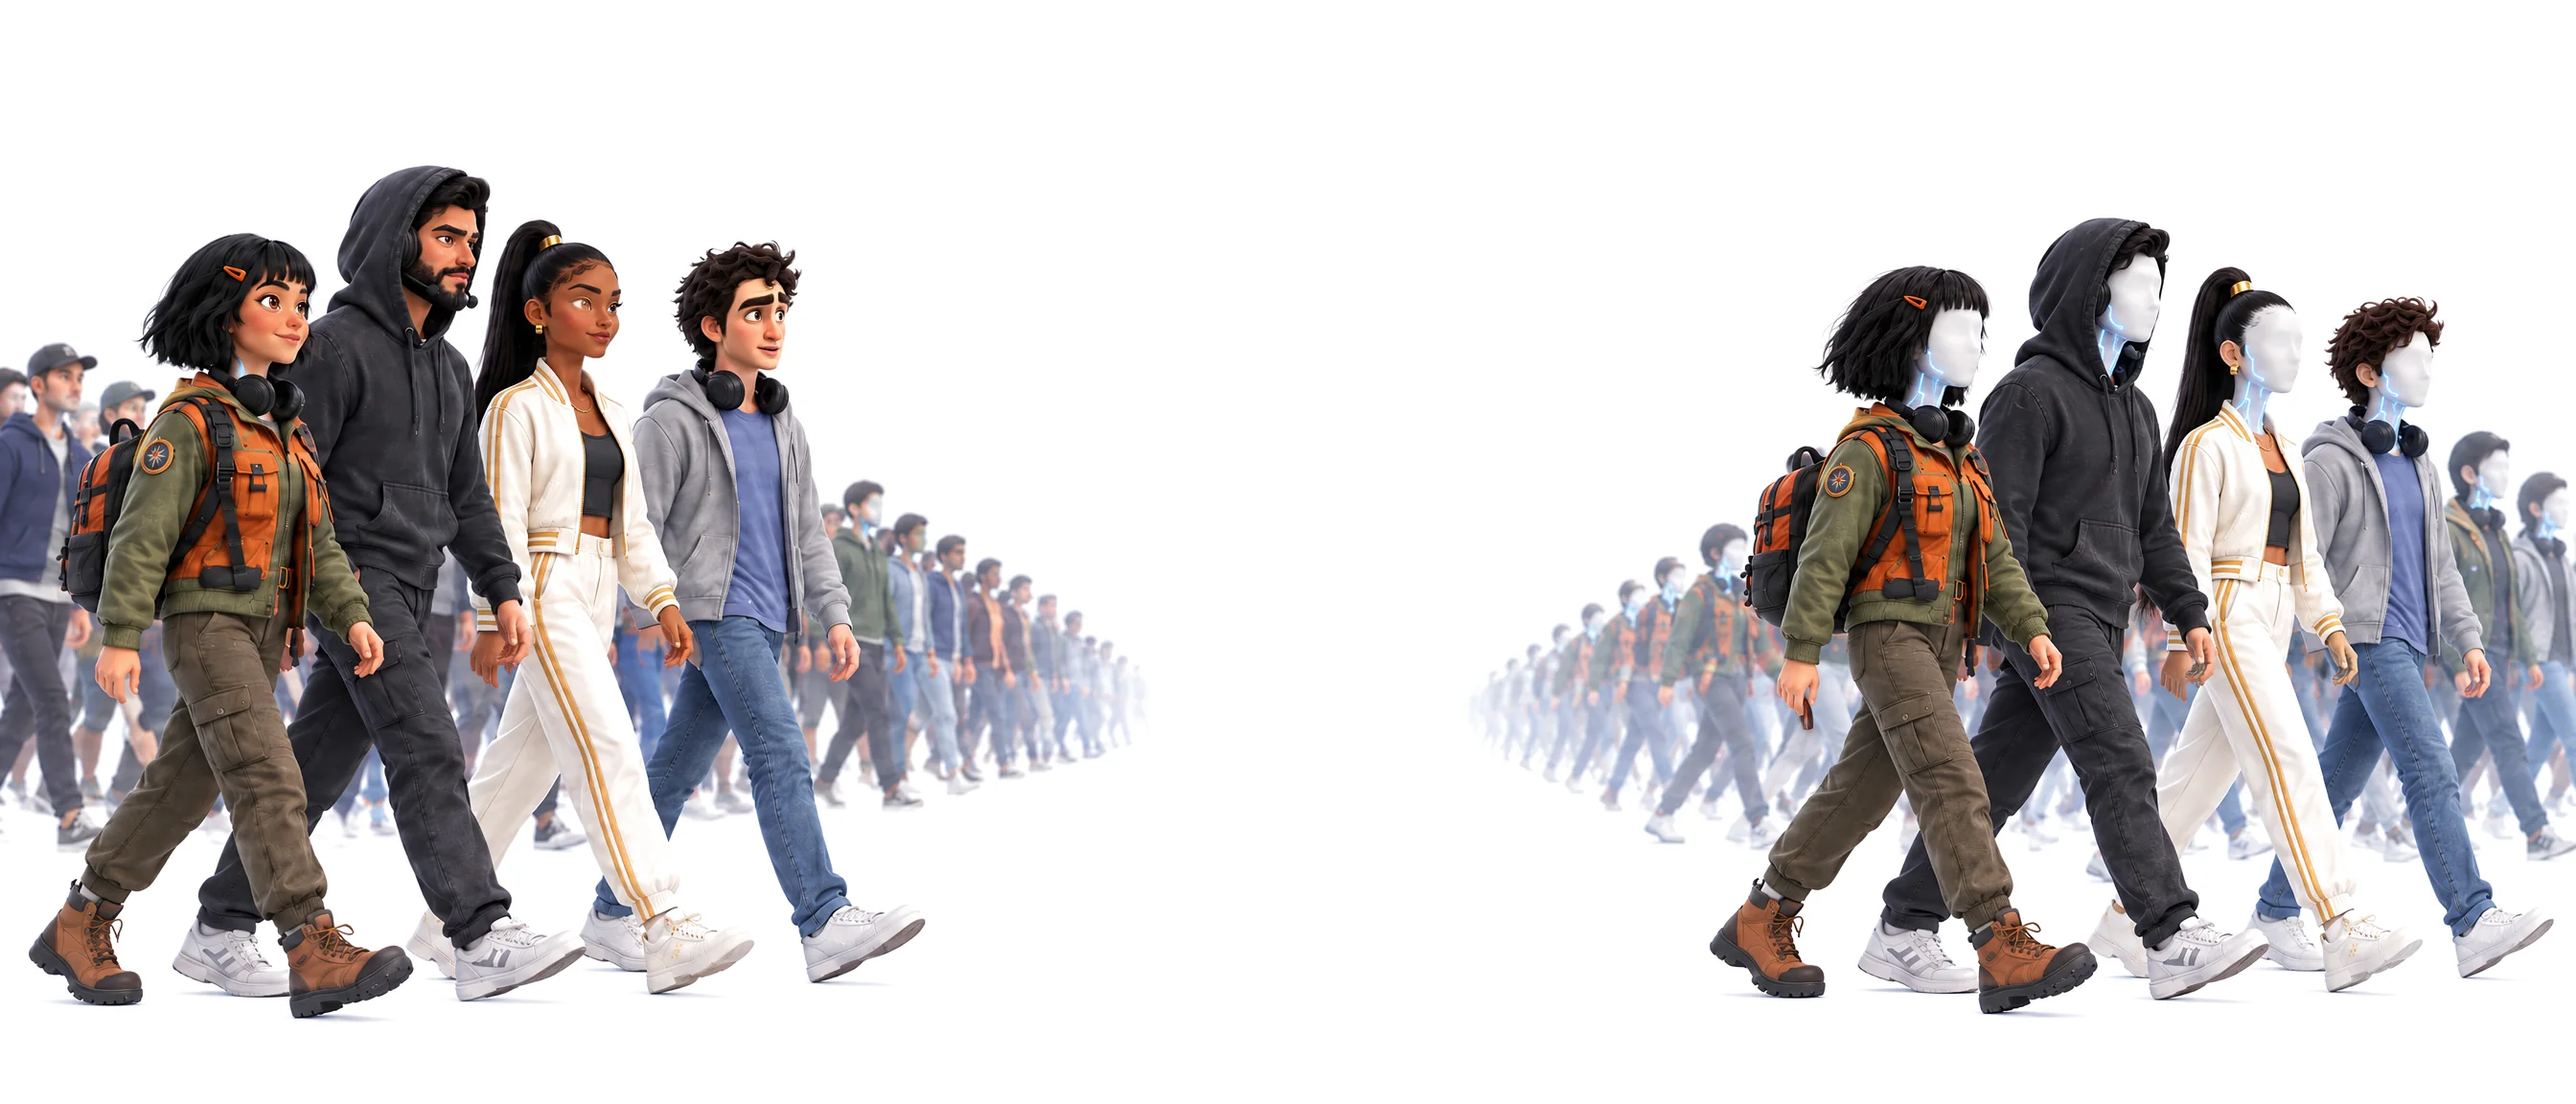
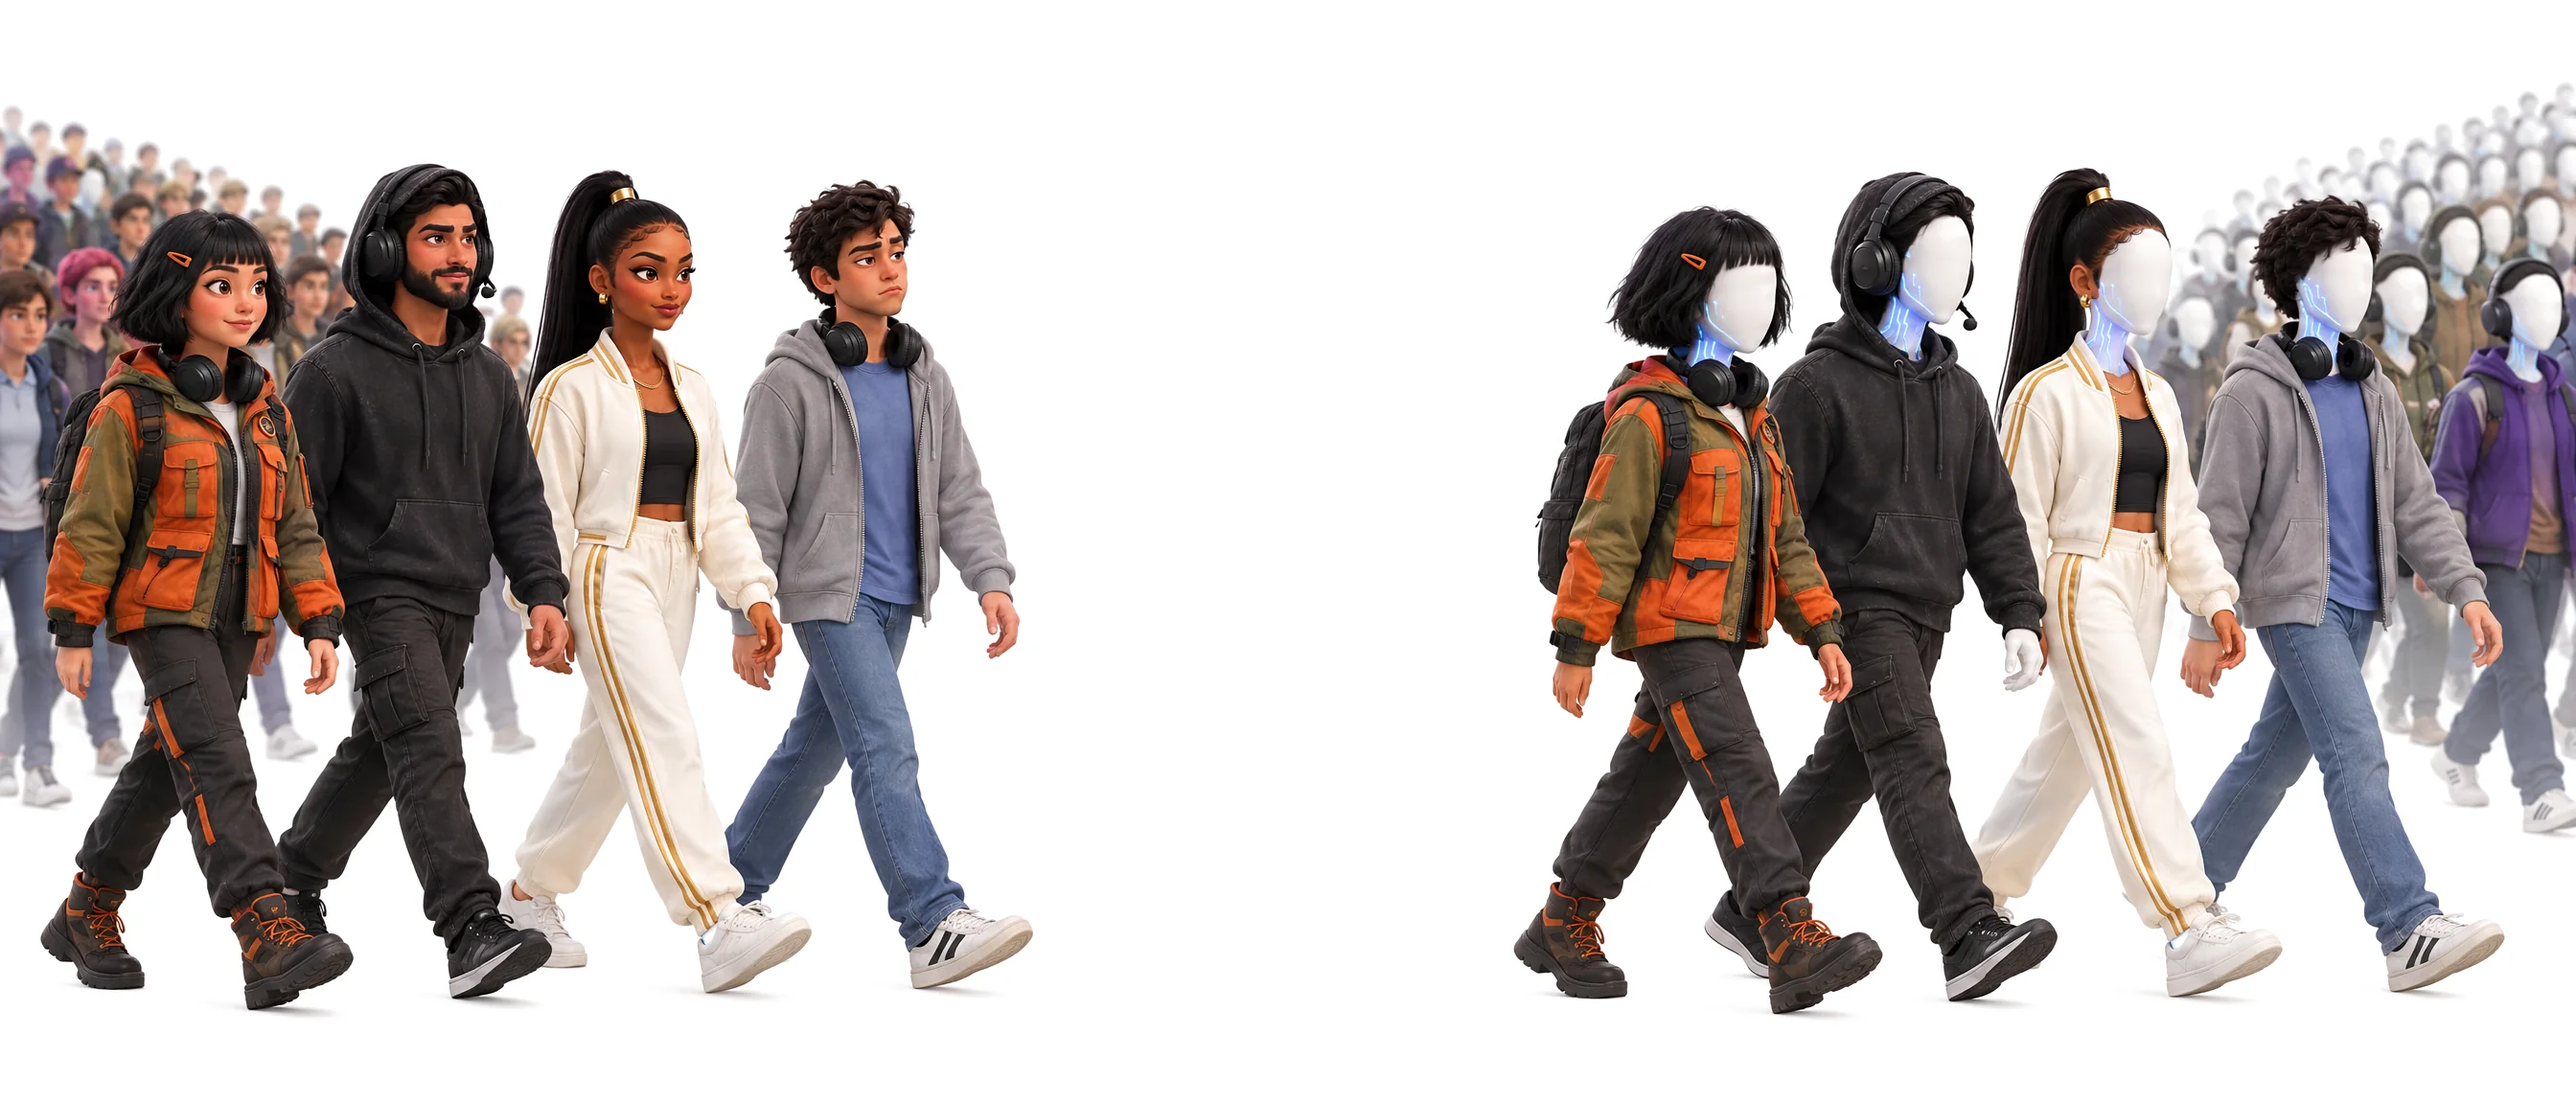
Footer copy line redrawn from scratch: correct human faces, the AI copies with plain faces as in the hero

diff --git a/src/components/website/CopyLine.tsx b/src/components/website/CopyLine.tsx
@@ -3,8 +3,8 @@
 // header's cobalt glass, cresting from behind it and fading down into it (after the onBlue creators page's
 // foot). Around them, nothing but the copy line (public/footer/copy-line.webp, generated on plain white
 // with no text in it): our players and a crowd behind them walk in from the left toward the mark, and come
-// out on the right as their AI copies, in their own clothes with the white face and the blue lines at the
-// neck, so the brand in the middle is where the copying happens. The picture has no ground and no scene:
+// out on the right as their AI copies, in their own clothes with a plain white face (as in the hero's tiles) and the
+// blue lines at the neck, so the brand in the middle is where the copying happens. The picture has no ground and no scene:
 // it is multiplied into the page, so its white is the page and only the people show, and their legs
 // dissolve into the page before the hairline. From a tablet up it runs the band's full width at its own
 // shape (FIT), so two spec labels in code, on leader lines, can sit in its own coordinates and land on the
@@ -14,8 +14,8 @@ import { SixLabsCobalt } from "./brand-marks";
 
 const LABELS: { text: string; x: number; y: number; strong?: boolean }[] = [
   // x, y: where the leader line lands, in % of the picture
-  { text: "Real players", x: 17.3, y: 15 },
-  { text: "1,000,000+ player models", x: 82.2, y: 19, strong: true },
+  { text: "Real players", x: 16.7, y: 14 },
+  { text: "1,000,000+ player models", x: 74.4, y: 15, strong: true },
 ];
 
 const COPY = "block whitespace-nowrap";
@@ -50,8 +50,8 @@ export function CopyLine() {
         <div className={FIT}>
           {/* eslint-disable-next-line @next/next/no-img-element -- a static, pre-sized image with its own srcset */}
           <img
-            src="/footer/copy-line.webp?v=6"
-            srcSet="/footer/copy-line-1344.webp?v=6 1344w, /footer/copy-line.webp?v=6 2688w"
+            src="/footer/copy-line.webp?v=7"
+            srcSet="/footer/copy-line-1344.webp?v=7 1344w, /footer/copy-line.webp?v=7 2688w"
             sizes="100vw"
             width={2688}
             height={1152}
